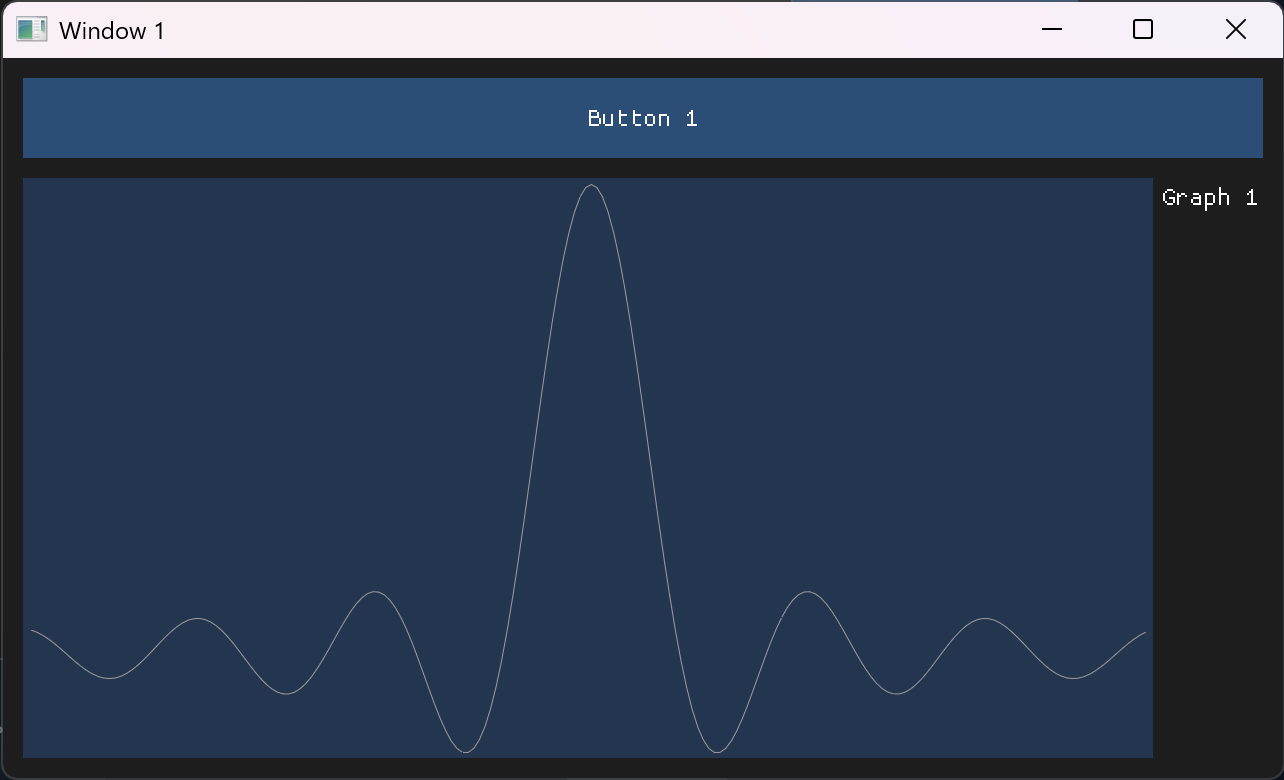
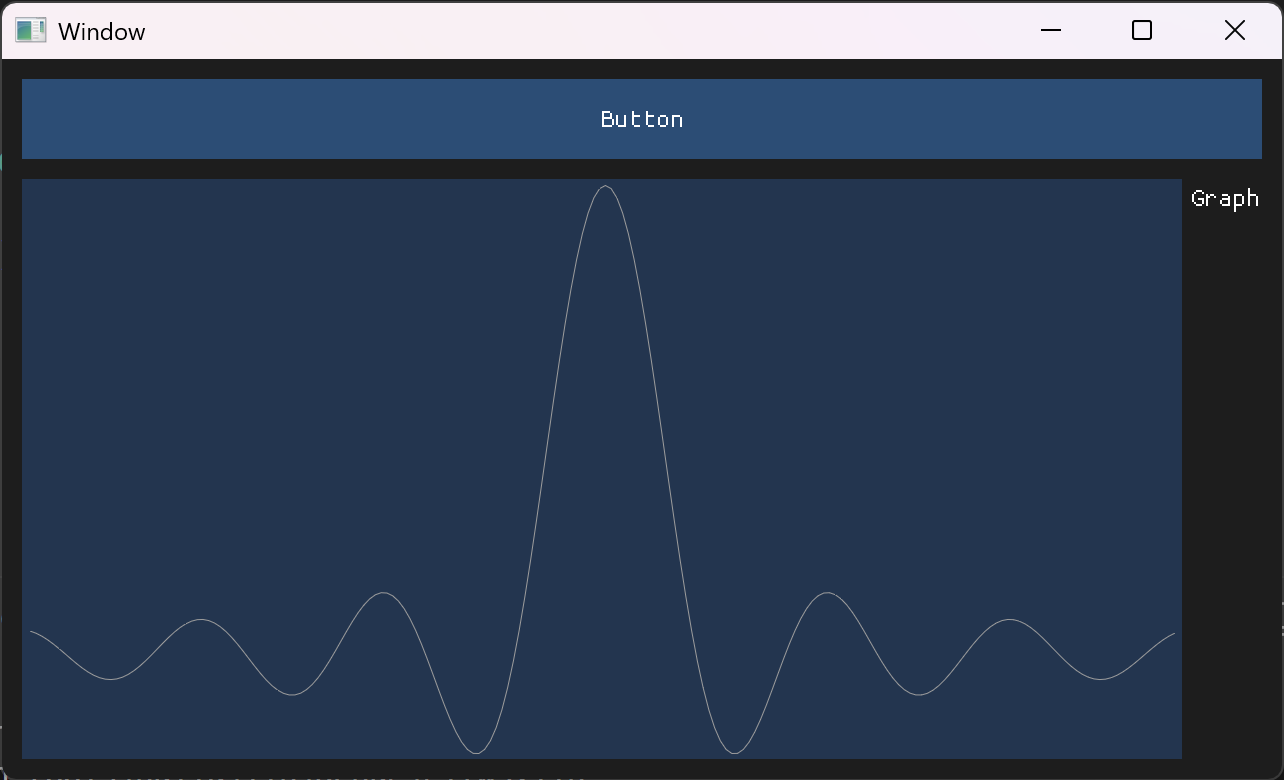
Update

diff --git a/src/panel.cpp b/src/panel.cpp
@@ -8,7 +8,7 @@ void PanelUnit::SetLayout() const {
 }
 
 ButtonUnit::ButtonUnit(int width, int height, std::string title)
-    : PanelUnit(width, height, std::move(title)), m_callback(nullptr) {}
+    : PanelUnit(width, height, std::move(title)) {}
 
 void ButtonUnit::Render() {
     SetLayout();
@@ -17,3 +17,12 @@ void ButtonUnit::Render() {
         if (m_callback) { m_callback(); };
     }
 };
+
+GraphUnit::GraphUnit(int width, int height, std::string title)
+    : PanelUnit(width, height, std::move(title)) {}
+
+void GraphUnit::Render() {
+    SetLayout();
+
+    ImGui::PlotLines(m_title.c_str(), m_values.data(), m_values.size(), 0, nullptr, FLT_MAX, FLT_MAX, ImVec2(m_w, m_h));
+}

diff --git a/src/main.cpp b/src/main.cpp
@@ -1,21 +1,5 @@
 #include "window.hpp"
 
-#include <iostream>
-
 int main() {
-    /* Manager */
-    auto manager = WindowManager::Create();
 
-    /* Window */
-    auto window = UnitFactory::Create<WindowUnit>(1280, 720, "Window");
-
-    auto button = UnitFactory::Create<ButtonUnit>(1240, 80, "Button");
-    button->SetPos(20, 20);
-    button->SetCallback([] { std::cout << 1 << std::endl; });
-
-    window->Push(std::move(button));
-    manager->Push(std::move(window));
-
-    /* Run */
-    manager->Run();
 }

diff --git a/include/panel.hpp b/include/panel.hpp
@@ -8,6 +8,7 @@
 
 #include <functional>
 #include <string>
+#include <vector>
 
 class PanelUnit : ObjectUnit {
 public:
@@ -37,4 +38,16 @@ public:
 
 private:
     std::function<void()> m_callback;
+};
+
+class GraphUnit final : public PanelUnit {
+public:
+    GraphUnit(int width, int height, std::string title);
+
+    void Render() override;
+
+    void SetValues(std::vector<float>&& values) { m_values = std::move(values); }
+
+private:
+    std::vector<float> m_values;
 };

diff --git a/include/window.hpp b/include/window.hpp
@@ -5,8 +5,6 @@
 
 #include "panel.hpp"
 
-#include <vector>
-
 template <typename T>
 using VectorUnique = std::vector<std::unique_ptr<T>>;
 

diff --git a/README.md b/README.md
@@ -1,1 +1,35 @@
 ![Sample](assets/sample.png)
+
+```cpp
+#include "window.hpp"
+
+#include <iostream>
+
+int main() {
+    /* Manager */
+    auto manager = WindowManager::Create();
+
+    /* Window */
+    auto window = UnitFactory::Create<WindowUnit>(1280, 720, "Window");
+
+    auto button = UnitFactory::Create<ButtonUnit>(1240, 80, "Button");
+    button->SetPos(20, 20);
+    button->SetCallback([] { std::cout << 1 << std::endl; });
+
+    std::vector<float> values;
+    for (float i = -10; i <= 10; i += 0.1) {
+        values.push_back(std::sin(2 * i) / i);
+    }
+
+    auto graph = UnitFactory::Create<GraphUnit>(1160, 580, "Graph");
+    graph->SetPos(20, 120);
+    graph->SetValues(std::move(values));
+
+    window->Push(std::move(button));
+    window->Push(std::move(graph));
+
+    manager->Push(std::move(window));
+
+    /* Run */
+    manager->Run();
+}
